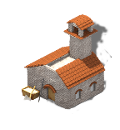
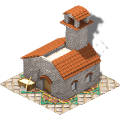
fixed #906. Added ground for prefecture/eng.post. Added config for fire animation in tileset app

diff --git a/source/objects/house.cpp b/source/objects/house.cpp
@@ -1144,7 +1144,7 @@ void House::_update( bool needChangeTexture )
   {
     if( !pic.isValid() )
     {
-      Logger::warning( "WARNING!!! House: failed change texture for size {0}", size().width() );
+      Logger::warning( "WARNING!!! House: failed change texture for size {}", size().width() );
       pic = Picture::getInvalid();
     }
 
